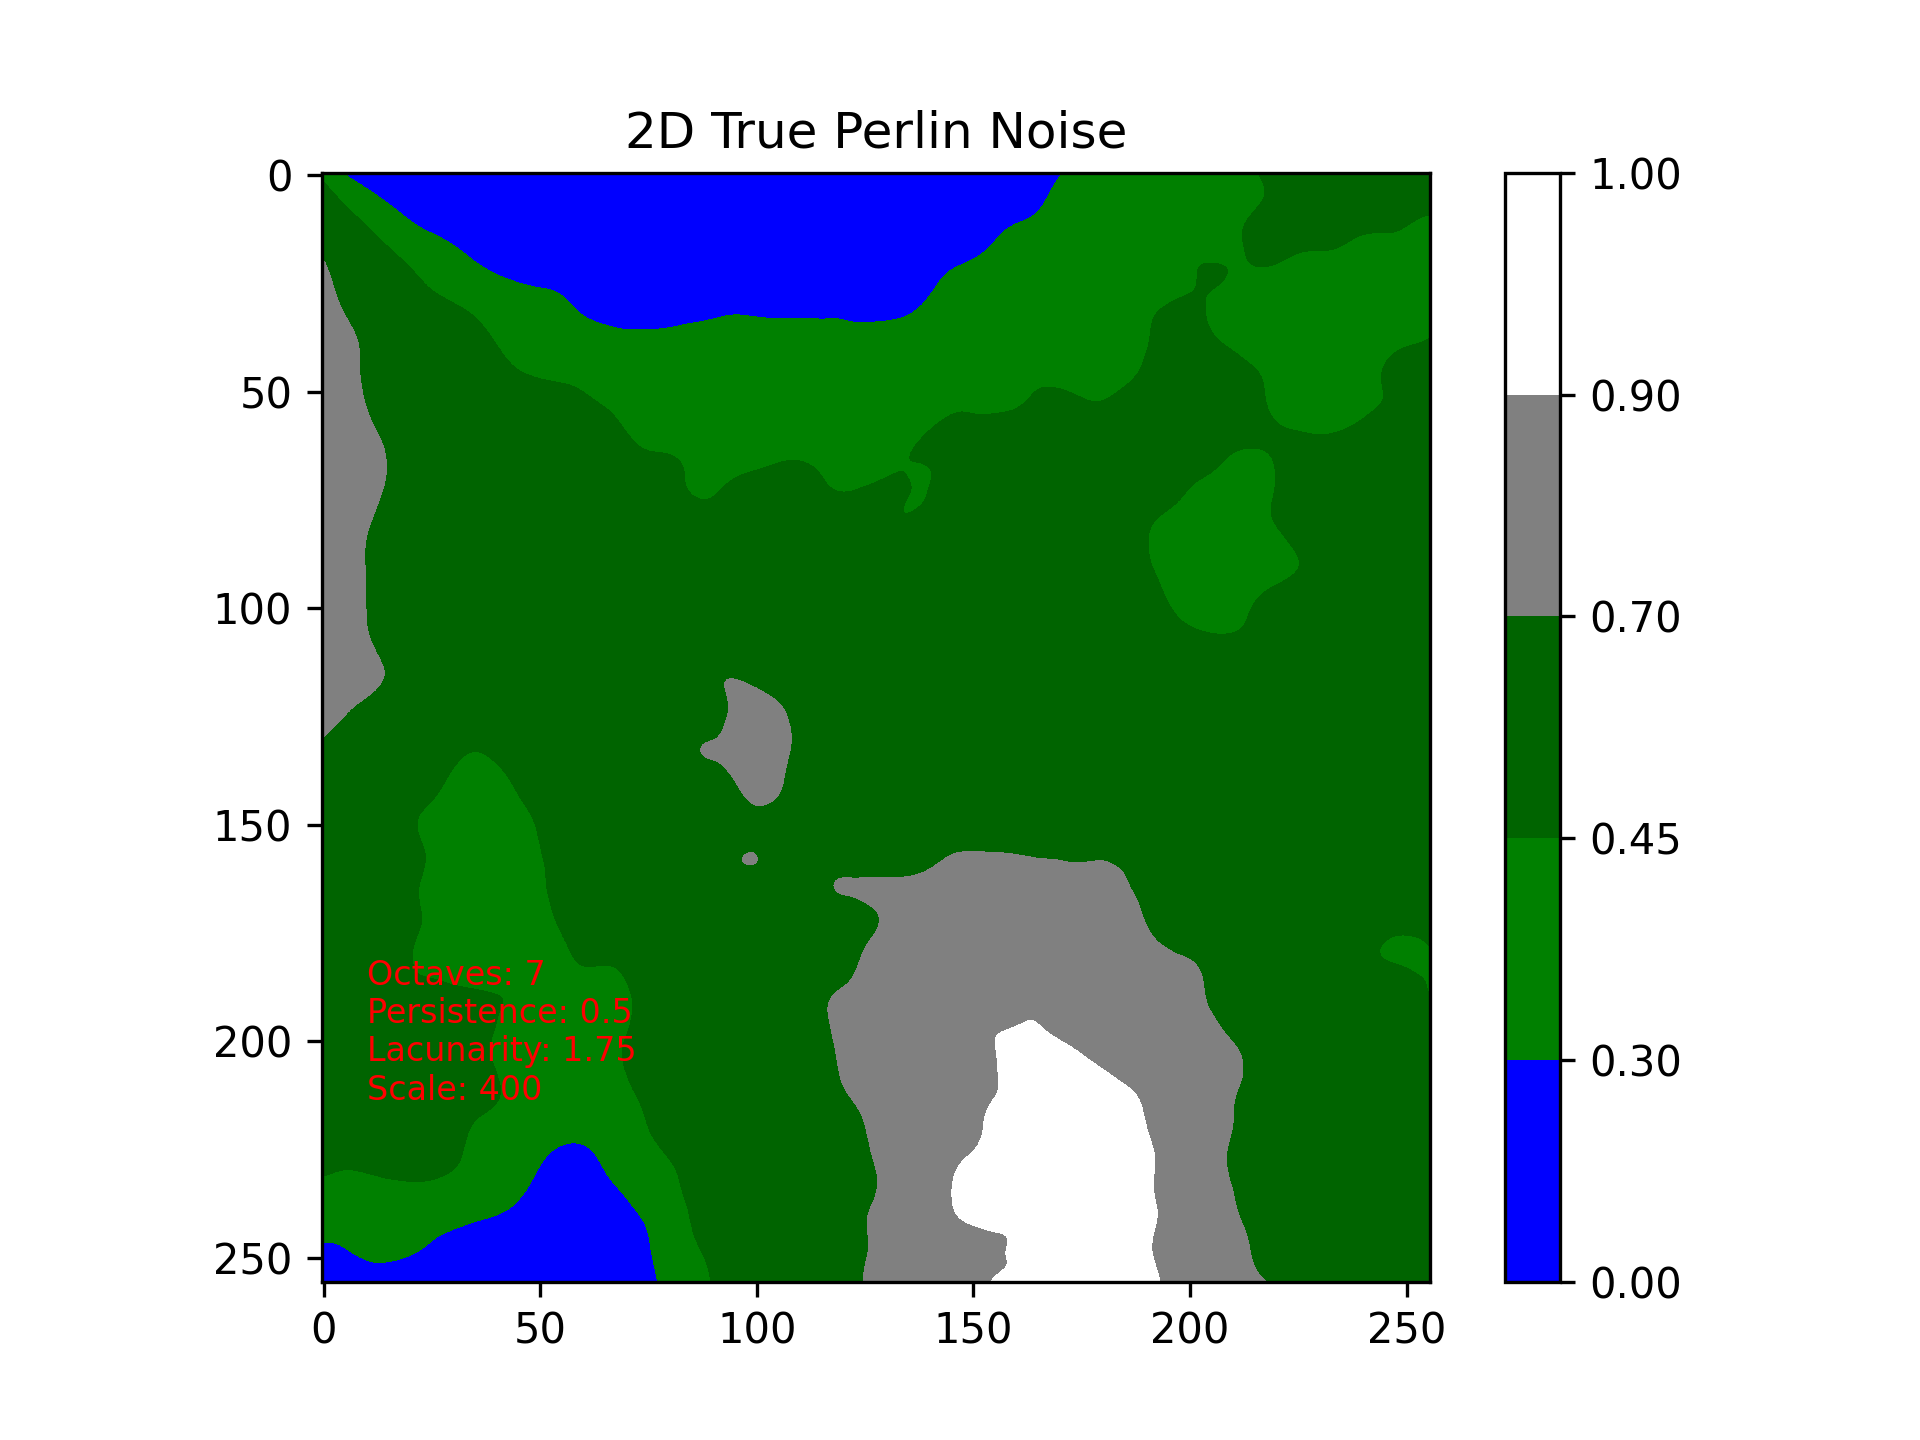
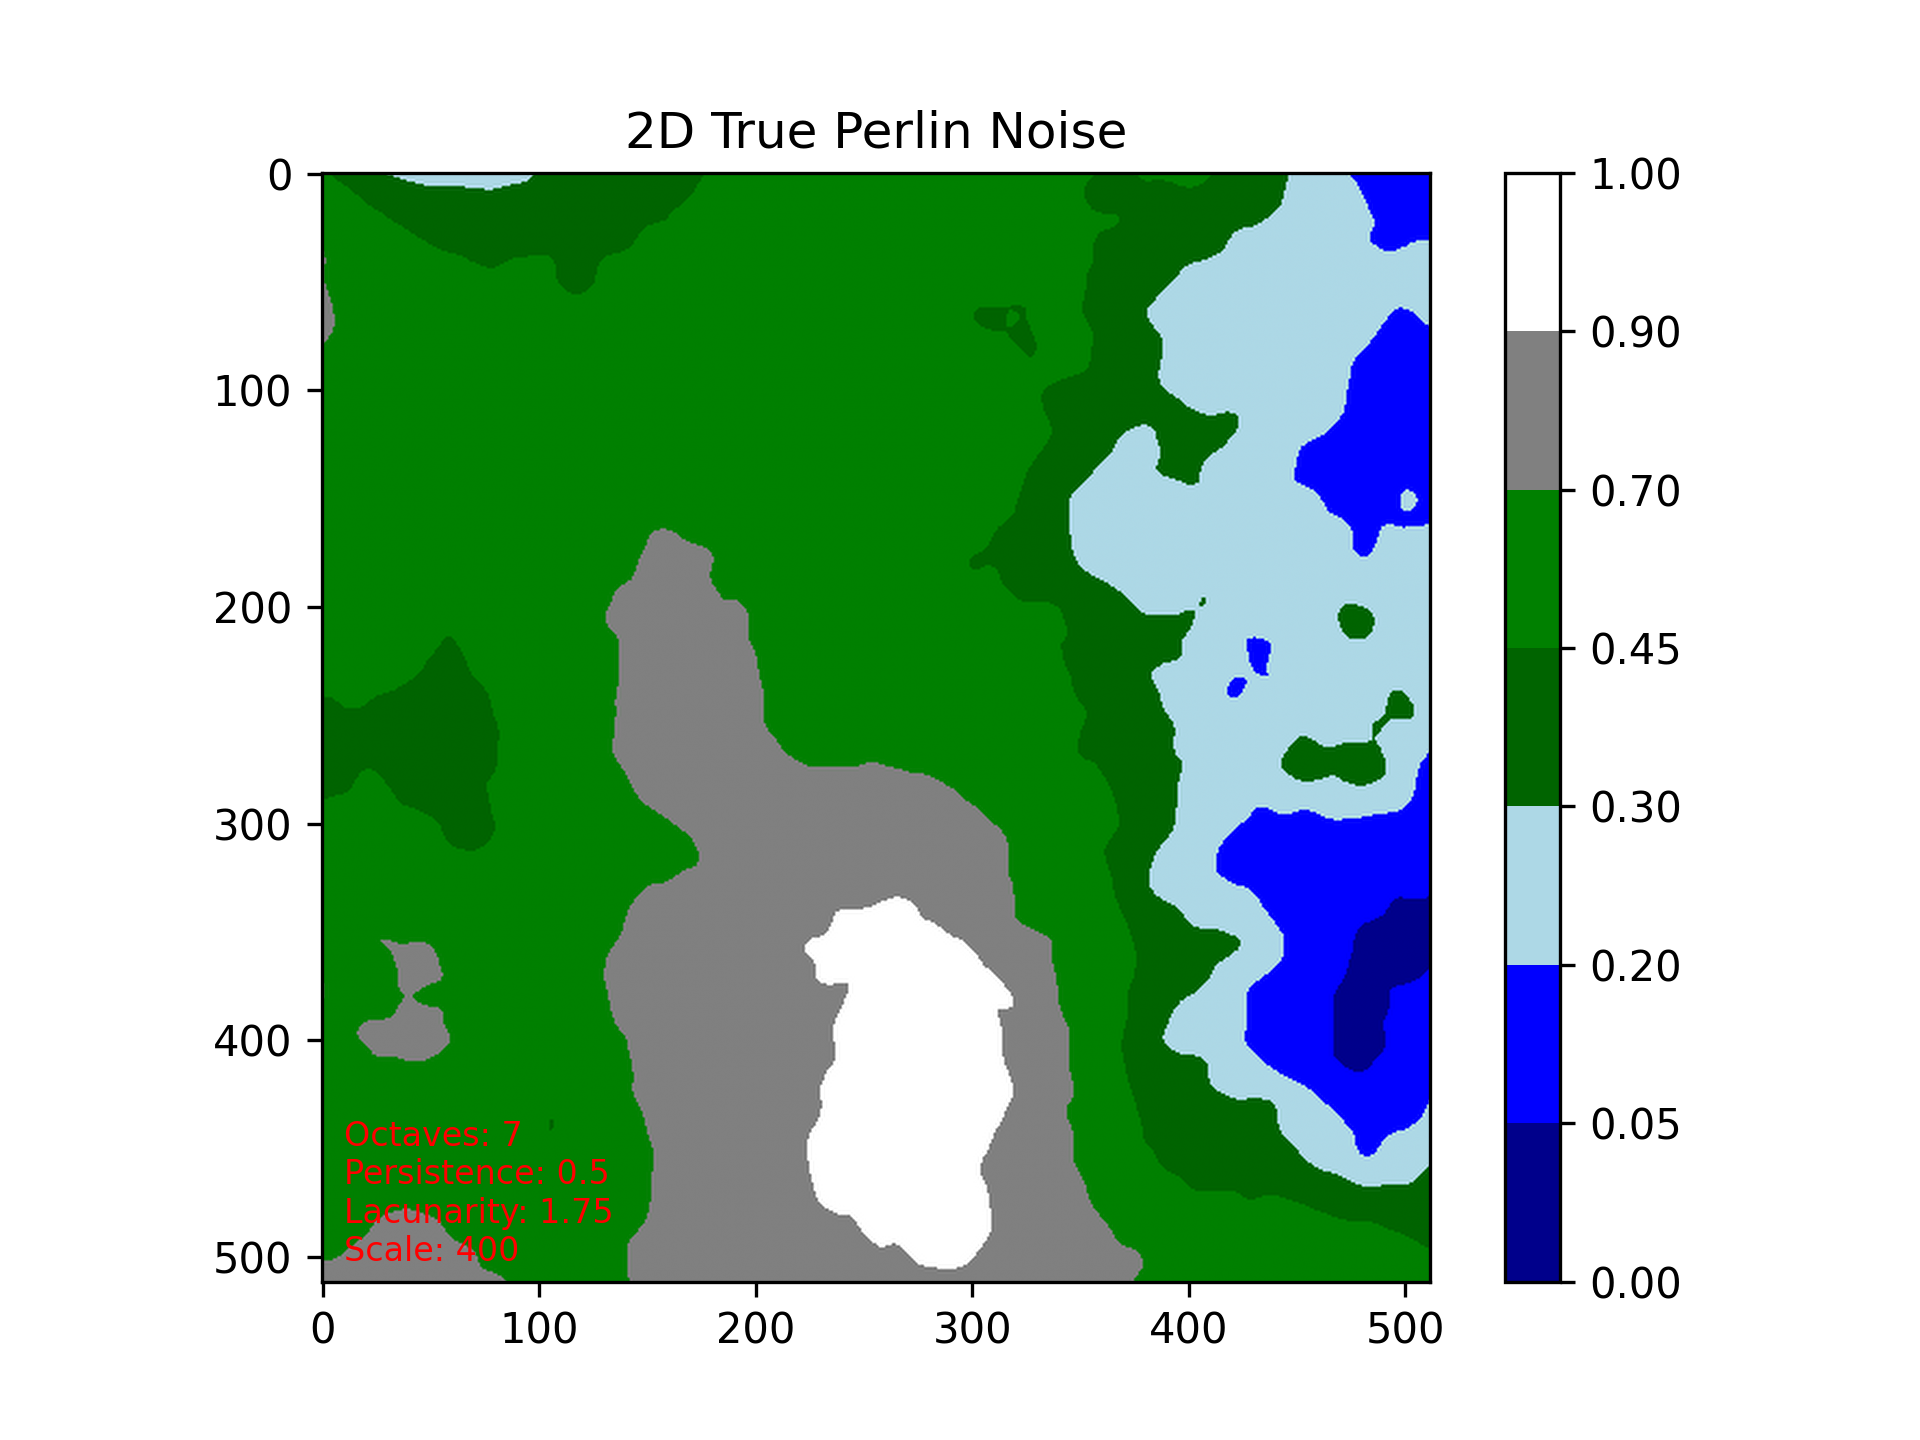
Updated true perlin noise

diff --git a/true_perlin_noise.py b/true_perlin_noise.py
@@ -84,16 +84,16 @@ def display_noise(noise_array, output_dir, size, land_type_boundaries, land_type
 
 if __name__ == "__main__":
     # Parameters for the Perlin noise
-    size = (256, 256)
+    size = (512, 512)
     octaves = 7
     persistence = 0.50         # Amplitude of each octave
     lacunarity = 1.75          # Frequency of each octave
     scale = 400               # Scale of the noise (higher values zoom out)
 
     # Hyperparameters to dictate the land type colors and boundaries
-    water_level = 0.30                                     # Water level for fractal Perlin noise generation
-    land_type_boundaries = [0, water_level, 0.45, 0.70, 0.90, 1]  # Boundaries for different land types
-    land_type_colors = ['blue', 'green', 'darkgreen','grey', 'white']  # Colors for different land types 
+    water_level = 0.30                                                      # Water level for fractal Perlin noise generation
+    land_type_boundaries = [0,   0.05,      0.20,   water_level,    0.45,       0.70,   0.90,   1]      # Boundaries for different land types
+    land_type_colors = [        'darkblue', "blue", "lightblue", 'darkgreen', 'green','grey', 'white']  # Colors for different land types 
 
 
 
